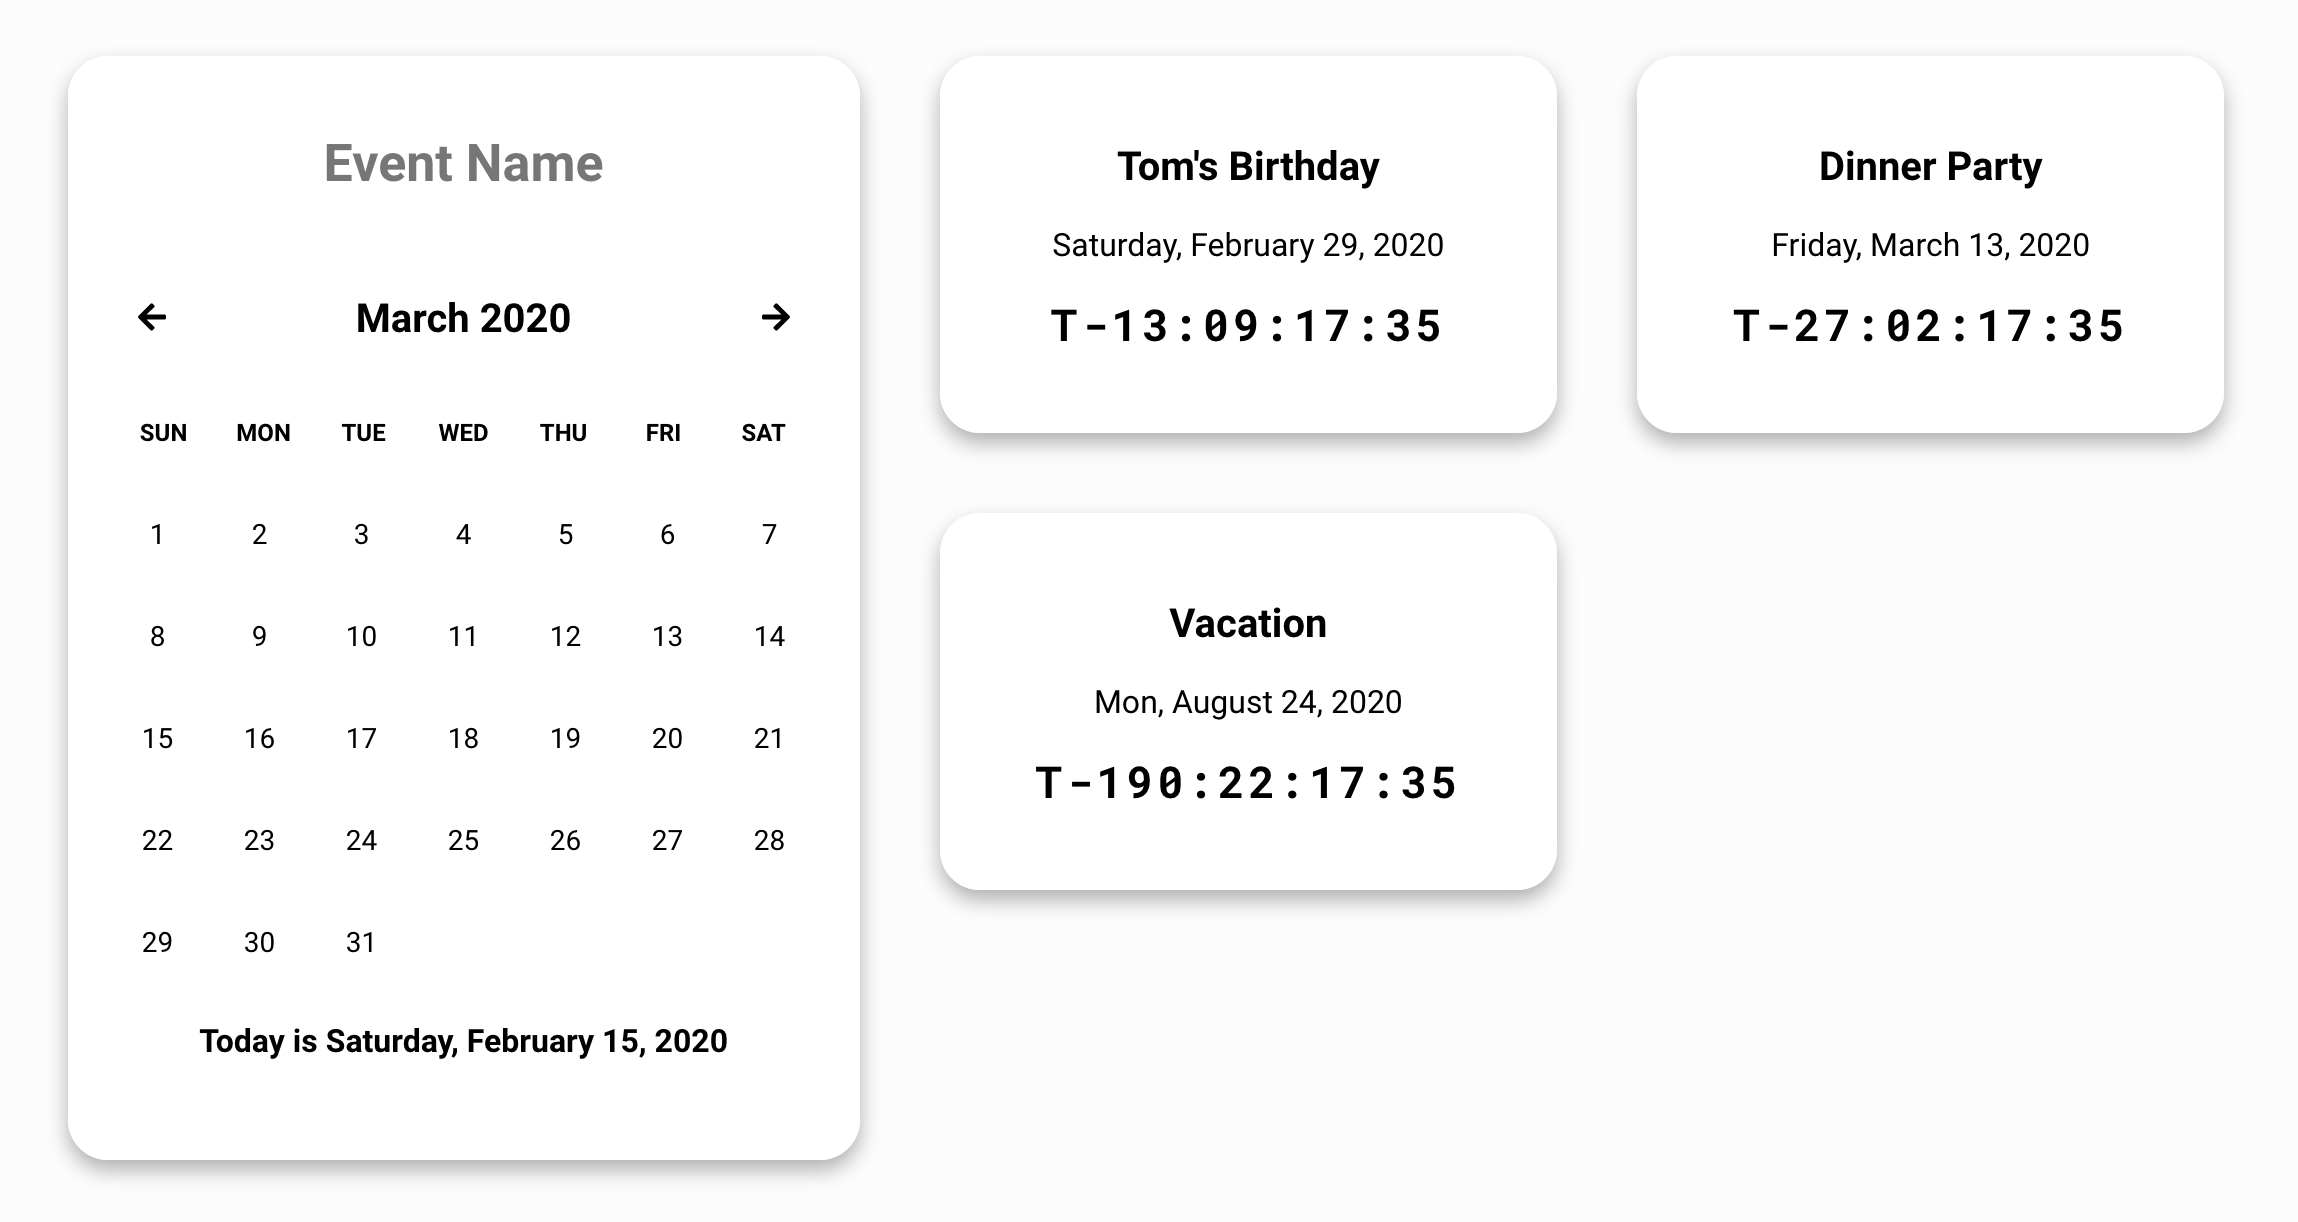
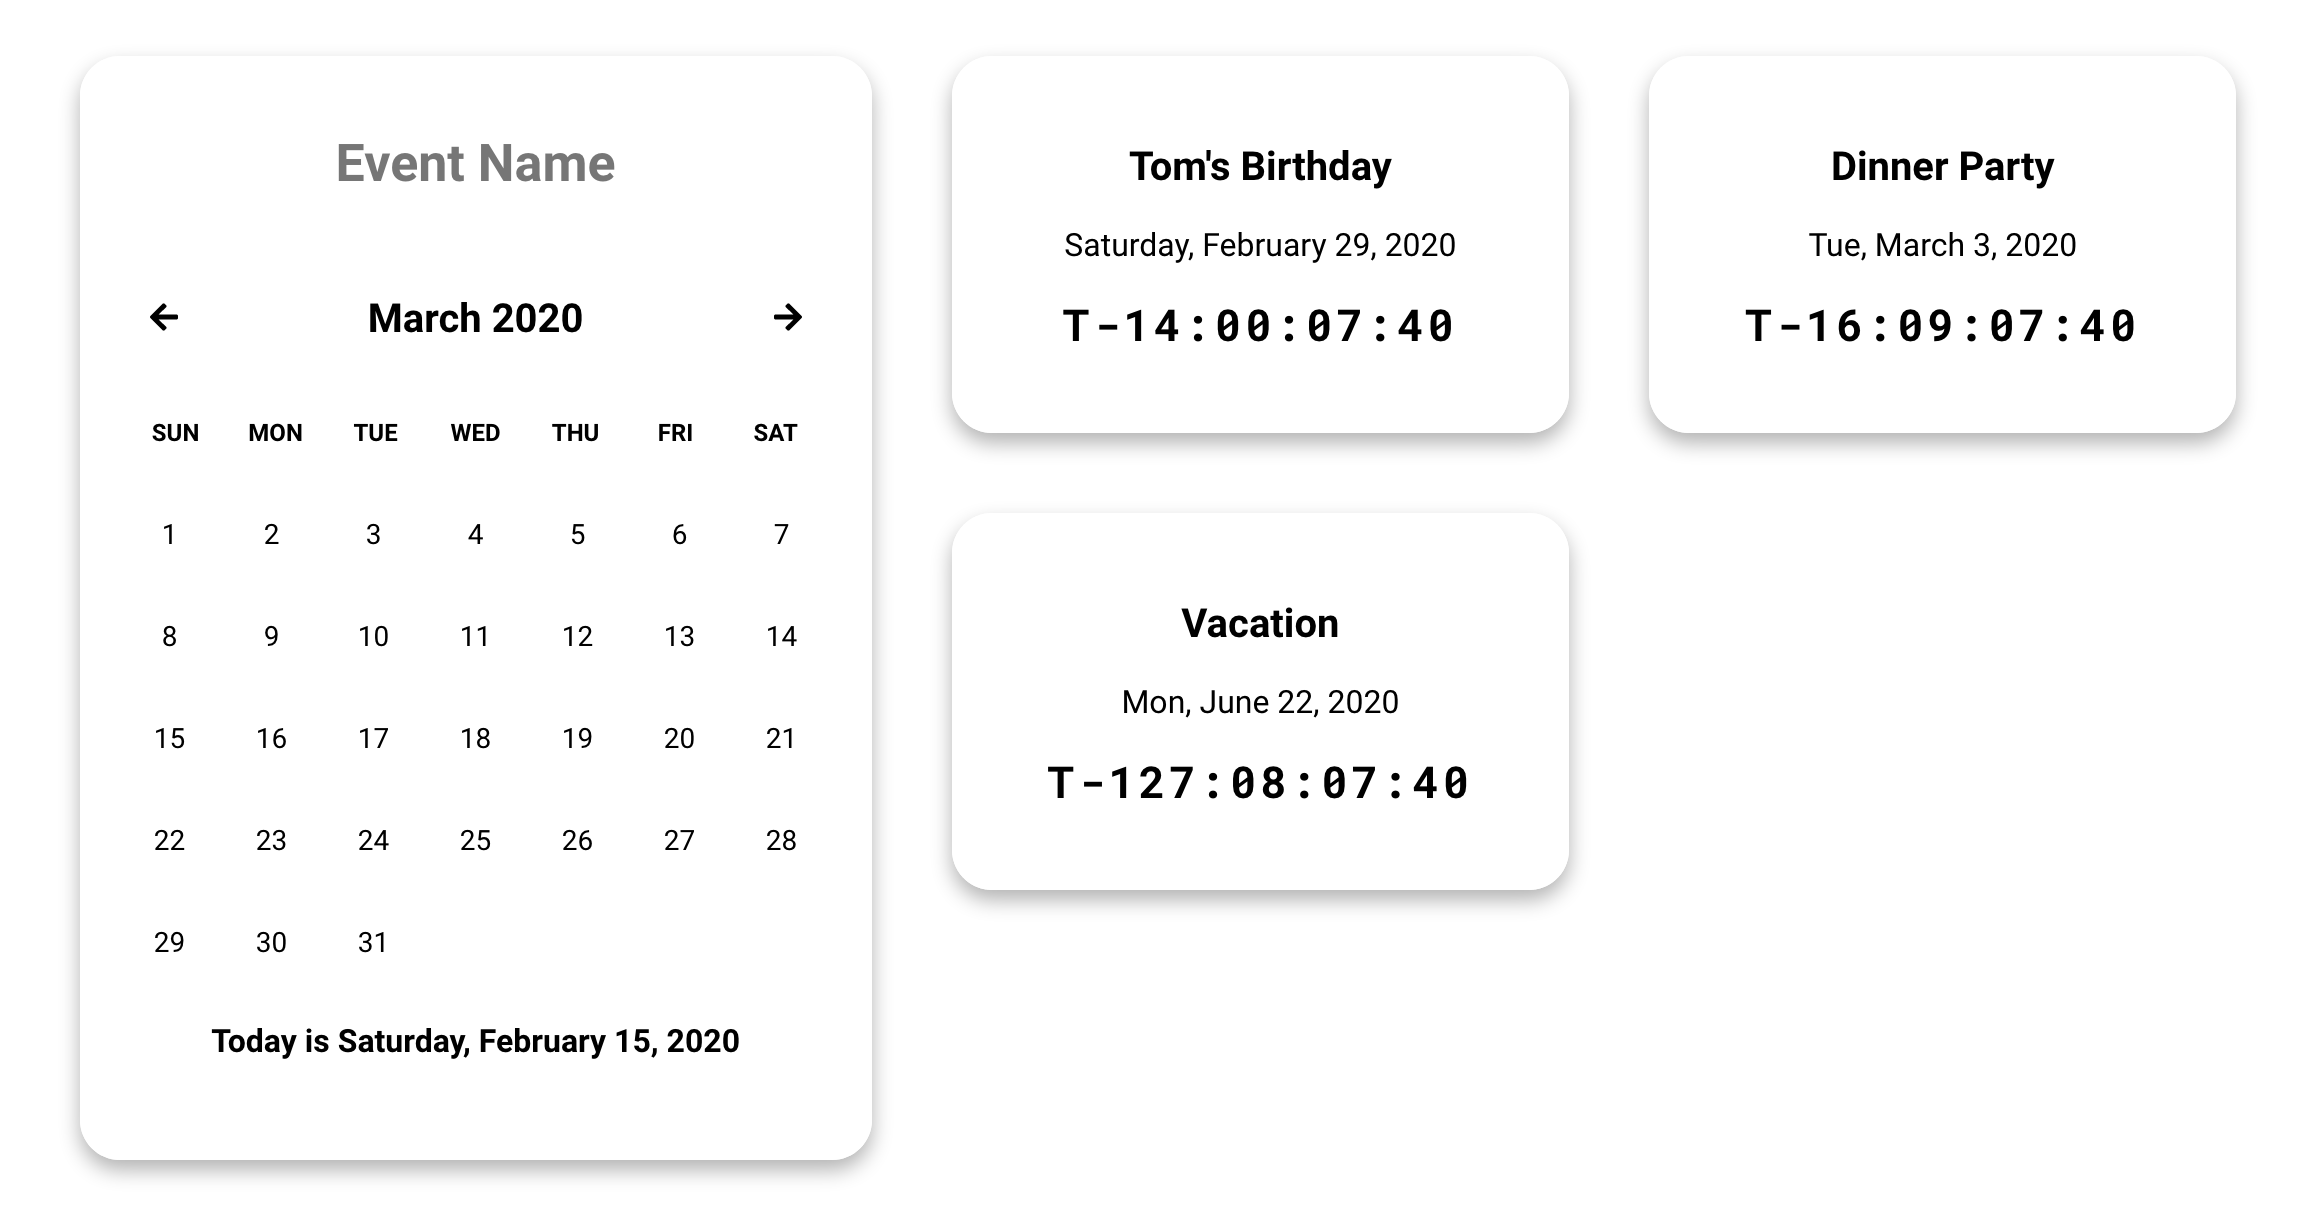
update styles and add new screnshot

diff --git a/src/App.styles.js b/src/App.styles.js
@@ -1,7 +1,7 @@
 import styled from "styled-components";
 
 const AppStyles = styled.div`
-  background: rgb(252, 252, 252);
+  /* background: rgb(252, 252, 252); */
   height: 100vh;
 
   * {
